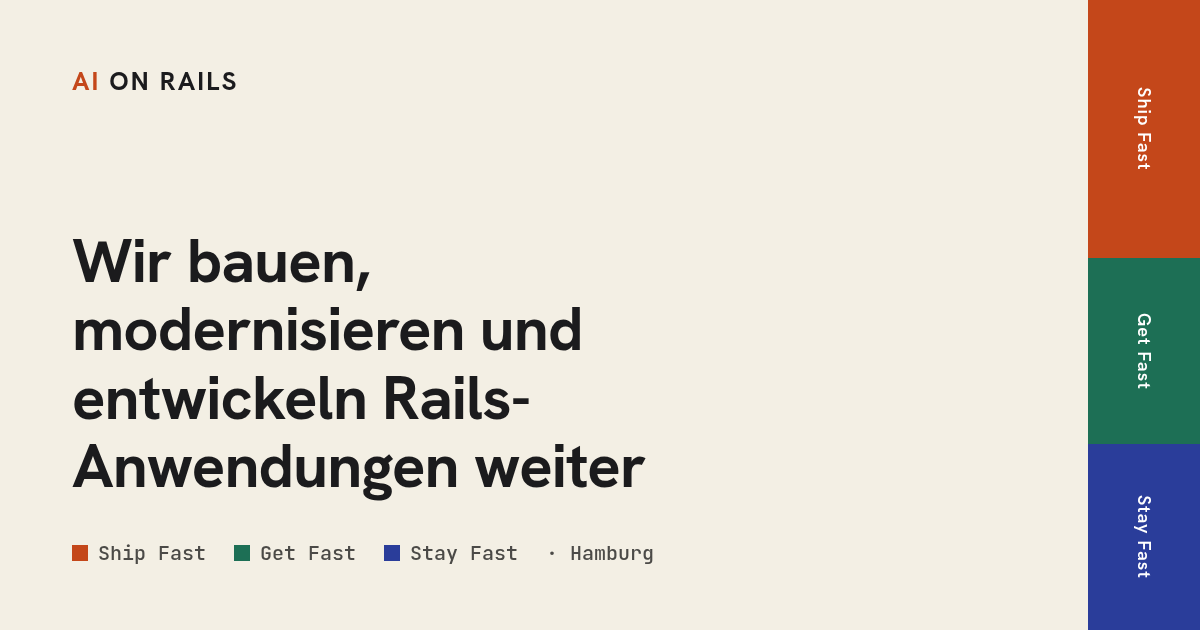
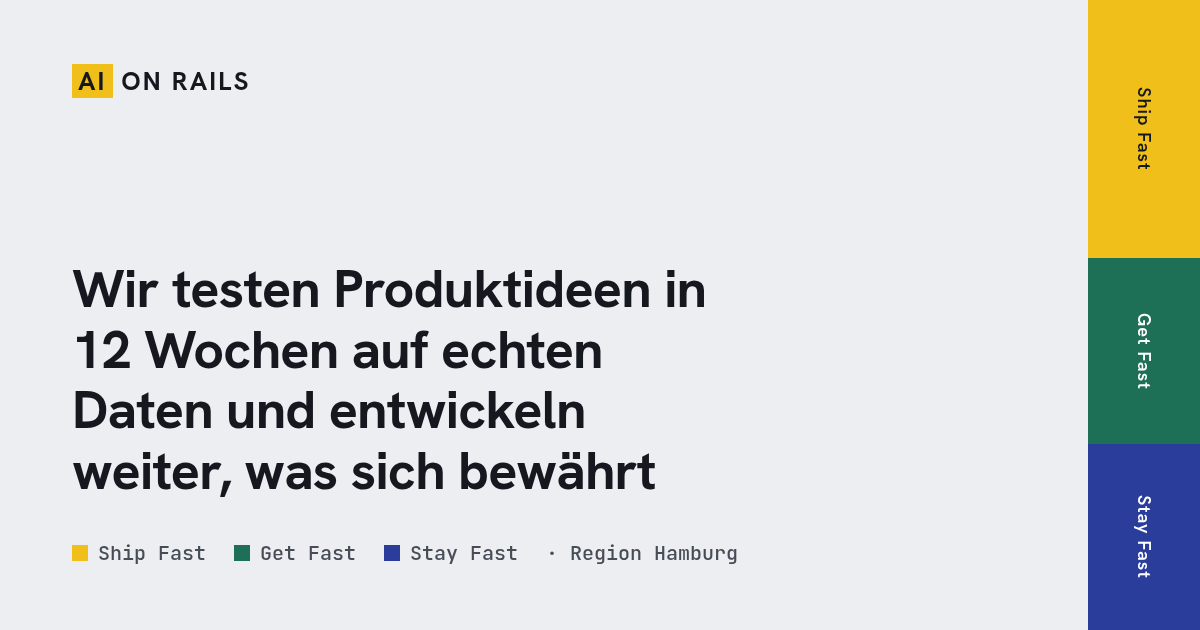
Palette: kühles Grau und Chromgelb statt Beige und Orange
Beiger Grund mit orangen Akzenten (plus Serif) wirkte wie Claude bzw.
typische KI-Oberfläche. Jetzt: Grund #eceef1, Blätter reines Weiß,
Ship Fast in Chromgelb mit dunkler Schrift, Logo 'AI' als gelber Reiter,
Errata in Signalrot, Auswahl gelb. OG-Bild mit neuer Headline neu gerendert.
DESIGN.md, design.json, Richtungsvertrag nachgezogen; cream-Ausnahme im
Detektor entfernt.

diff --git a/assets/site.css b/assets/site.css
@@ -1,22 +1,23 @@
 /* ai-on-rails: Handbuch mit Registern.
-   Papiergrund, ein Register pro Leistung in voller Farbe, Text auf hellen Blättern.
+   Kühler Grund (Ordnerkarton grau), ein Register pro Leistung in voller Farbe, Text auf hellen Blättern.
+   Bewusst kein Beige und kein Orange: das ist die Farbwelt typischer KI-Oberflächen.
    Bewegung nur in zwei Stufen (steps(2), 90 ms), kein Easing. */
 
 :root {
-  --paper: #f3efe4;
-  --leaf: rgba(255, 255, 253, .95);
-  --ink: #1b1b1d;
-  --ink-2: #4b4a47;
-  --rule: #d8d2c3;
-  --start: #6e685c;
-  --ship: #c4471a;
-  --ship-ink: #a83a12;
+  --paper: #eceef1;
+  --leaf: #ffffff;
+  --ink: #15181e;
+  --ink-2: #474d57;
+  --rule: #cfd4db;
+  --start: #555d6b;
+  --ship: #f0bf1a;
+  --ship-ink: #7a5b00;
   --get: #1d6f55;
   --get-ink: #1d6f55;
   --stay: #2a3d9a;
   --stay-ink: #2a3d9a;
-  --dark: #1b1b1d;
-  --errata: #9a3412;
+  --dark: #15181e;
+  --errata: #b4232f;
   --serif: "Source Serif 4", Georgia, serif;
   --sans: "Hanken Grotesk", system-ui, sans-serif;
   --mono: "JetBrains Mono", ui-monospace, monospace;
@@ -28,7 +29,7 @@
 *, *::before, *::after { box-sizing: border-box; }
 html { scroll-behavior: smooth; background: var(--paper); }
 body { margin: 0; background: var(--paper); color: var(--ink); font: 400 1.0625rem/1.62 var(--serif); }
-::selection { background: #f6d7c6; color: var(--ink); }
+::selection { background: #ffe27a; color: var(--ink); }
 a { color: inherit; text-underline-offset: 3px; text-decoration-thickness: 1px; }
 :focus-visible { outline: 2px solid var(--ink); outline-offset: 3px; }
 h1, h2, h3, p, ul, ol, dl { margin: 0; }
@@ -53,7 +54,8 @@ h1, h2, h3 { font-family: var(--sans); font-weight: 700; line-height: 1.15; lett
 .tabs a:hover, .tabs a[aria-current="true"], .tabs a[aria-current="page"] { box-shadow: none; color: #fff; }
 .tabs a:focus-visible { outline-color: #fff; outline-offset: -4px; }
 .t-start { background: var(--start); }
-.t-ship { background: var(--ship); }
+.t-ship { background: var(--ship); color: rgba(21, 24, 30, .78) !important; }
+.t-ship:hover, .t-ship[aria-current="true"], .t-ship[aria-current="page"] { color: var(--ink) !important; }
 .t-get { background: var(--get); }
 .t-stay { background: var(--stay); }
 .t-kontakt { background: var(--dark); }
@@ -64,7 +66,7 @@ h1, h2, h3 { font-family: var(--sans); font-weight: 700; line-height: 1.15; lett
 /* Kopf */
 .top .in { display: flex; justify-content: space-between; align-items: center; gap: 12px 24px; flex-wrap: wrap; padding-block: 20px; }
 .brand { font: 700 1.05rem var(--sans); letter-spacing: .08em; text-decoration: none; }
-.brand span { color: var(--ship-ink); }
+.brand span { background: var(--ship); color: var(--ink); padding: 0 4px; margin-right: 1px; }
 .top nav { display: flex; gap: 6px 22px; align-items: center; flex-wrap: wrap; font: 500 .95rem var(--sans); }
 .top nav a:not(.btn) { text-decoration: none; color: var(--ink-2); }
 .top nav a:not(.btn):hover, .top nav a[aria-current="page"] { color: var(--ink); }
@@ -78,8 +80,8 @@ h1, h2, h3 { font-family: var(--sans); font-weight: 700; line-height: 1.15; lett
 }
 .btn:hover { background: transparent; color: var(--ink); }
 .btn.sm { padding: 7px 14px; font-size: .9rem; }
-.btn.ship { background: var(--ship); border-color: var(--ship); }
-.btn.ship:hover { background: transparent; color: var(--ship-ink); }
+.btn.ship { background: var(--ship); border-color: var(--ship); color: var(--ink); }
+.btn.ship:hover { background: transparent; color: var(--ink); border-color: var(--ink); }
 .btn.ghost { background: transparent; color: var(--ink); }
 .btn.ghost:hover { background: var(--ink); color: #fff; }
 .row { display: flex; gap: 10px; flex-wrap: wrap; margin-top: 26px; }
@@ -99,6 +101,7 @@ h1, h2, h3 { font-family: var(--sans); font-weight: 700; line-height: 1.15; lett
 /* Register */
 .reg { padding-block: 56px; --hue: var(--ink); --hue-ink: var(--ink); }
 .reg.ship { background: var(--ship); --hue: var(--ship); --hue-ink: var(--ship-ink); }
+.reg.ship .margin { color: var(--ink); }
 .reg.get { background: var(--get); --hue: var(--get); --hue-ink: var(--get-ink); }
 .reg.stay { background: var(--stay); --hue: var(--stay); --hue-ink: var(--stay-ink); }
 .reg.dark { background: var(--dark); }

diff --git a/.impeccable/og/og.html b/.impeccable/og/og.html
@@ -1,17 +1,17 @@
 <!DOCTYPE html><html lang="de"><head><meta charset="UTF-8">
 <link href="https://fonts.googleapis.com/css2?family=Hanken+Grotesk:wght@600;700&family=JetBrains+Mono:wght@500&display=swap" rel="stylesheet">
 <style>
-html,body{margin:0;width:1200px;height:630px;background:#f3efe4;color:#1b1b1d;font-family:'Hanken Grotesk',sans-serif;overflow:hidden}
+html,body{margin:0;width:1200px;height:630px;background:#eceef1;color:#15181e;font-family:'Hanken Grotesk',sans-serif;overflow:hidden}
 .w{position:absolute;inset:0 112px 0 0;padding:64px 72px;display:flex;flex-direction:column}
-.b{font-weight:700;font-size:26px;letter-spacing:.08em}.b span{color:#c4471a}
-h1{font-weight:700;font-size:62px;line-height:1.1;letter-spacing:-.015em;margin:auto 0 0;max-width:17ch}
-.l{display:flex;gap:28px;margin-top:40px;font:500 20px 'JetBrains Mono';color:#4b4a47}
+.b{font-weight:700;font-size:26px;letter-spacing:.08em}.b span{background:#f0bf1a;color:#15181e;padding:0 6px}
+h1{font-weight:700;font-size:54px;line-height:1.12;letter-spacing:-.015em;margin:auto 0 0;max-width:22ch}
+.l{display:flex;gap:28px;margin-top:40px;font:500 20px 'JetBrains Mono';color:#474d57}
 .l i{display:inline-block;width:16px;height:16px;margin-right:10px;vertical-align:-1px}
 .t{position:absolute;right:0;top:0;bottom:0;width:112px;display:flex;flex-direction:column}
 .t div{display:flex;align-items:center;justify-content:center;color:#fff;font-weight:600;font-size:18px;letter-spacing:.06em;writing-mode:vertical-rl}
 </style></head><body>
 <div class="w"><div class="b"><span>AI</span> ON RAILS</div>
-<h1>Wir bauen, modernisieren und entwickeln Rails-Anwendungen weiter</h1>
-<div class="l"><span><i style="background:#c4471a"></i>Ship Fast</span><span><i style="background:#1d6f55"></i>Get Fast</span><span><i style="background:#2a3d9a"></i>Stay Fast</span><span>· Hamburg</span></div></div>
-<div class="t"><div style="flex:1.6;background:#c4471a">Ship Fast</div><div style="flex:1.15;background:#1d6f55">Get Fast</div><div style="flex:1.15;background:#2a3d9a">Stay Fast</div></div>
+<h1>Wir testen Produktideen in 12 Wochen auf echten Daten und entwickeln weiter, was sich bewährt</h1>
+<div class="l"><span><i style="background:#f0bf1a"></i>Ship Fast</span><span><i style="background:#1d6f55"></i>Get Fast</span><span><i style="background:#2a3d9a"></i>Stay Fast</span><span>· Region Hamburg</span></div></div>
+<div class="t"><div style="flex:1.6;background:#f0bf1a;color:#15181e">Ship Fast</div><div style="flex:1.15;background:#1d6f55">Get Fast</div><div style="flex:1.15;background:#2a3d9a">Stay Fast</div></div>
 </body></html>

diff --git a/index.html b/index.html
@@ -22,7 +22,7 @@
   <meta name="twitter:image" content="https://ai-on-rails.com/og-image.png">
 
   <meta name="robots" content="index, follow">
-  <meta name="theme-color" content="#f3efe4">
+  <meta name="theme-color" content="#eceef1">
   <meta name="author" content="Henning Thies">
   <link rel="sitemap" type="application/xml" href="/sitemap.xml">
 

diff --git a/product-bets.html b/product-bets.html
@@ -22,7 +22,7 @@
   <meta name="twitter:image" content="https://ai-on-rails.com/og-image.png">
 
   <meta name="robots" content="index, follow">
-  <meta name="theme-color" content="#f3efe4">
+  <meta name="theme-color" content="#eceef1">
   <meta name="author" content="Henning Thies">
   <link rel="sitemap" type="application/xml" href="/sitemap.xml">
 

diff --git a/rails-modernisierung.html b/rails-modernisierung.html
@@ -22,7 +22,7 @@
   <meta name="twitter:image" content="https://ai-on-rails.com/og-image.png">
 
   <meta name="robots" content="index, follow">
-  <meta name="theme-color" content="#f3efe4">
+  <meta name="theme-color" content="#eceef1">
   <meta name="author" content="Henning Thies">
   <link rel="sitemap" type="application/xml" href="/sitemap.xml">
 

diff --git a/rails-weiterentwicklung.html b/rails-weiterentwicklung.html
@@ -22,7 +22,7 @@
   <meta name="twitter:image" content="https://ai-on-rails.com/og-image.png">
 
   <meta name="robots" content="index, follow">
-  <meta name="theme-color" content="#f3efe4">
+  <meta name="theme-color" content="#eceef1">
   <meta name="author" content="Henning Thies">
   <link rel="sitemap" type="application/xml" href="/sitemap.xml">
 

diff --git a/DESIGN.md b/DESIGN.md
@@ -1,20 +1,20 @@
 ---
 name: ai-on-rails
-description: Handbuch mit Registern. Papiergrund, ein Register pro Leistung in voller Farbe, Inhalt auf hellen Blättern.
+description: Handbuch mit Registern. Kühler grauer Grund, ein Register pro Leistung in voller Farbe, Inhalt auf hellen Blättern.
 colors:
-  paper: "#f3efe4"
-  leaf: "rgba(255, 255, 253, .95)"
-  ink: "#1b1b1d"
-  ink-2: "#4b4a47"
-  rule: "#d8d2c3"
-  start: "#6e685c"
-  ship: "#c4471a"
-  ship-ink: "#a83a12"
+  paper: "#eceef1"
+  leaf: "#ffffff"
+  ink: "#15181e"
+  ink-2: "#474d57"
+  rule: "#cfd4db"
+  start: "#555d6b"
+  ship: "#f0bf1a"
+  ship-ink: "#7a5b00"
   get: "#1d6f55"
   stay: "#2a3d9a"
-  dark: "#1b1b1d"
-  errata: "#9a3412"
-  selection: "#f6d7c6"
+  dark: "#15181e"
+  errata: "#b4232f"
+  selection: "#ffe27a"
   dark-leaf: "#26262a"
   dark-line: "#3a3a40"
   dark-text: "#f1efe9"
@@ -198,14 +198,14 @@ components:
 
 **Creative North Star: "Das Handbuch mit Registern"**
 
-Die Website ist ein gebundenes Handbuch. Jede Leistung ist ein Register aus Karton in voller Farbe (Ship Fast Oxidorange, Get Fast Grün, Stay Fast Ultramarin, Kontakt Tinte), und der Inhalt liegt auf fast weißen Blättern, die auf diesem Karton aufliegen. Rechts sitzt über die volle Höhe eine feste Registerleiste; der Reiter des Registers, das gerade im Blick ist, ist ausgezogen. Die Welt stammt aus dem Katalog-Challenger rw-manual-acetate-tab-board und wurde vom Nutzer auf Platz 1 gesetzt.
+Die Website ist ein gebundenes Handbuch. Jede Leistung ist ein Register aus Karton in voller Farbe (Ship Fast Chromgelb, Get Fast Grün, Stay Fast Ultramarin, Kontakt Tinte), und der Inhalt liegt auf fast weißen Blättern, die auf diesem Karton aufliegen. Rechts sitzt über die volle Höhe eine feste Registerleiste; der Reiter des Registers, das gerade im Blick ist, ist ausgezogen. Die Welt stammt aus dem Katalog-Challenger rw-manual-acetate-tab-board und wurde vom Nutzer auf Platz 1 gesetzt.
 
 Die Haltung ist die eines technischen Handbuchs, nicht einer Agenturseite: dieselben Felder in jedem Register, Maße und Dauern in Monospace, Linien wie in einer Tabelle, offene Angaben als sichtbarer Errata-Zettel statt als geglätteter Platzhalter. Dichte ist mittel: lesbare Blätter mit begrenzter Zeilenlänge, aber keine Luftflächen ohne Inhalt. Die Seite verweigert die Agentur-Vorlage aus Hero-Bild, drei gleichen Karten und Logoleiste.
 
 Bewegung hat genau eine Grammatik: zwei harte Stufen in 90 ms (`steps(2)`), ohne Easing. Der Reiter springt heraus, der Button kippt um, das Plus der FAQ klappt. Nichts gleitet, nichts federt.
 
 **Key Characteristics:**
-- Papiergrund, Register in voller Farbe, Inhalt immer auf einem hellen Blatt
+- Kühler grauer Grund (Ordnerkarton), Register in voller Farbe, Inhalt immer auf einem hellen Blatt
 - Feste Registerleiste rechts (64px), Reiterhöhe nach Umfang der Leistung
 - Drei Schriftstimmen: Serif zum Lesen, Grotesk zum Navigieren, Mono zum Messen
 - Steckbrief mit denselben vier Feldern in jedem Register
@@ -215,11 +215,11 @@ Bewegung hat genau eine Grammatik: zwei harte Stufen in 90 ms (`steps(2)`), ohne
 
 ## Colors
 
-Warmer Papiergrund und Tinte als Basis, drei kräftige, gedeckte Registerfarben als Leistungs-Codes, ein Rostrot nur für offene Angaben.
+Kühler grauer Grund und Tinte als Basis, drei kräftige Registerfarben (Chromgelb, Grün, Ultramarin) als Leistungs-Codes, ein Signalrot nur für offene Angaben. **Bewusst kein Beige und kein Orange** (Henning, 19.11.: wirkte wie Claude bzw. typische KI-Oberfläche). Serif-Fließtext bleibt nur in Verbindung mit kühlem Grund vertretbar.
 
 ### Primary
-- **Ship Oxidorange** (`ship`): Register Ship Fast / Product Bets, ihr Reiter, ihre Farbmarke im Inhaltsverzeichnis und der einzige farbige Button (`button-ship`). Weil die Product Bet führt, ist Orange auch die Farbe des Haupt-Aufrufs "Gespräch vereinbaren" im Startblock und auf der Bet-Seite.
-- **Ship-Tinte** (`ship-ink`): dunklere Stufe für orangefarbenen Text auf hellem Grund (Wochenangaben im Ablauf, Listenmarker, Hover-Text des Ship-Buttons, "AI" in der Wortmarke). Text in Registerfarbe auf Papier oder Blatt nimmt immer die `-ink`-Stufe.
+- **Ship Chromgelb** (`ship`): Register Ship Fast / Product Bets, ihr Reiter, ihre Farbmarke im Inhaltsverzeichnis und der einzige farbige Button (`button-ship`). Weil die Product Bet führt, ist Orange auch die Farbe des Haupt-Aufrufs "Gespräch vereinbaren" im Startblock und auf der Bet-Seite.
+- **Ship-Tinte** (`ship-ink`): dunkle Ocker-Stufe für gelben Akzenttext auf hellem Grund (Gelb selbst ist als Text nicht lesbar) (Wochenangaben im Ablauf, Listenmarker, Hover-Text des Ship-Buttons, "AI" in der Wortmarke). Text in Registerfarbe auf Papier oder Blatt nimmt immer die `-ink`-Stufe.
 
 ### Secondary
 - **Register-Grün** (`get`): Register Get Fast / Modernisierung. Im CSS existiert `--get-ink` mit identischem Wert; Grün ist dunkel genug, um als Text auf dem Blatt zu stehen.
@@ -231,14 +231,14 @@ Warmer Papiergrund und Tinte als Basis, drei kräftige, gedeckte Registerfarben 
 - **Errata-Rost** (`errata`): ausschließlich für offene Angaben (`.open`): Preise, Fristen, Freigaben, die noch fehlen.
 
 ### Neutral
-- **Papier** (`paper`): Seitengrund, Startblock, Kopf, Fuß, Abschnitt "Für alle Register". Auch `theme-color`.
+- **Grund** (`paper`): Seitengrund, Startblock, Kopf, Fuß, Abschnitt "Für alle Register". Auch `theme-color`.
 - **Blatt** (`leaf`): fast weißes, leicht transparentes Blatt, auf dem jeder Inhalt eines Registers liegt.
 - **Tinte** (`ink`): Text, Primär-Button, 1.5px-Kopflinien von Tabellen, Fokusring. `dark` hat denselben Wert und färbt das Kontakt-Register und seinen Reiter.
 - **Tinte 2** (`ink-2`): Leads, Fließtext in Listen und Antworten, Labels, Meta-Zeilen, inaktive Kopfnavigation.
 - **Linie** (`rule`): 1px-Trennlinien innerhalb von Steckbrief, Ablauf, Preisen, Inhaltsverzeichnis und FAQ.
 - **Startgrau** (`start`): nur der Reiter "Start".
 - **Kontakt-Blatt / -Linie / -Text / -Lead / Ghost-Linie** (`dark-leaf`, `dark-line`, `dark-text`, `dark-lead`, `dark-ghost-line`): die invertierte Ausführung im Kontakt-Register.
-- **Markierung** (`selection`): Textauswahl, ein helles Orange.
+- **Markierung** (`selection`): Textauswahl, ein helles Gelb.
 
 ### Named Rules
 **The One Register, One Color Rule.** Jede Leistung besitzt genau eine Farbe, und diese Farbe erscheint nur als ihr Registerband, ihr Reiter, ihre Farbmarke im Inhaltsverzeichnis und als Akzent auf ihren Blättern (Wochenangaben, Listenmarker, FAQ-Plus über `--hue-ink`). Eine Registerfarbe taucht nie in einem fremden Register auf.
@@ -411,3 +411,9 @@ Klar und satt; beim Hover kippt der Button in zwei Stufen in seine Kontur.
 - **Don't** baue Hero-Bild, drei gleiche Karten oder eine Logoleiste; Leistungen sind Register, keine Kacheln.
 - **Don't** setze Labels oder Kicker über Überschriften; der Abschnittsname gehört in die Marginalie.
 - **Don't** verwende Icon-Sets oder Glyph-Icons; Marken sind Farbquadrate, Linien und gezeichnete Balken.
+
+## Nachtrag 19.11.: Palette ohne Beige/Orange
+- Grund `#eceef1`, Blatt reines Weiß, Tinte `#15181e`, Linie `#cfd4db`, Start-Reiter `#555d6b`.
+- Ship Chromgelb `#f0bf1a` trägt **dunkle** Schrift (Marginalie, Reiter, Button), nie weiße. Akzenttext Ocker `#7a5b00`.
+- Logo: "AI" auf gelbem Feld wie ein Registerreiter, Text in Tinte.
+- Errata Signalrot `#b4232f`.

diff --git a/.impeccable/surfaces/index-html.md b/.impeccable/surfaces/index-html.md
@@ -20,7 +20,7 @@ Ranking des Nutzers: C (Handbuch mit Registern), A (Entscheidungsvorlage), B (Br
 
 THESIS: Die Website ist ein gebundenes Handbuch mit einem Register pro Leistung. Ship Fast, Get Fast, Stay Fast sind Registerkarton in voller Farbe, der Inhalt liegt auf hellen Blättern darüber. Sie verweigert die Agentur-Vorlage aus Hero, drei gleichen Karten und Logoleiste.
 
-OWN-WORLD: Grund Papier #f3efe4. Register: Ship Oxidorange #c4471a, Get Grün #1d6f55, Stay Ultramarin #2a3d9a, Kontakt Tinte #1b1b1d. Blätter fast weiß (95 %), weicher kurzer Schatten. Fließtext Source Serif 4 in einer Größe, Köpfe Hanken Grotesk, Maße und Dauern in JetBrains Mono. Offene Angaben als gestrichelter Errata-Zettel in Rostrot.
+OWN-WORLD: Grund kühles Grau #eceef1 (kein Beige). Register: Ship Chromgelb #f0bf1a mit dunkler Schrift, Get Grün #1d6f55, Stay Ultramarin #2a3d9a, Kontakt Tinte #1b1b1d. Blätter reines Weiß, weicher kurzer Schatten. Fließtext Source Serif 4 in einer Größe, Köpfe Hanken Grotesk, Maße und Dauern in JetBrains Mono. Offene Angaben als gestrichelter Errata-Zettel in Signalrot. Kein Orange (Henning 19.11.: Beige + Orange wirkte wie Claude).
 
 STORY: Der Besucher sieht sofort, dass es drei Leistungen mit festem Ablauf gibt, dass die Product Bet vorne steht und was jede kostet, wie lange sie dauert und was am Ende vorliegt. Er glaubt das, weil jedes Register dieselben Felder führt (Raise aus A: Laufzeit, Einstieg, Kosten, Ergebnis) und Lücken sichtbar offen bleiben. Er bucht einen Termin.
 
